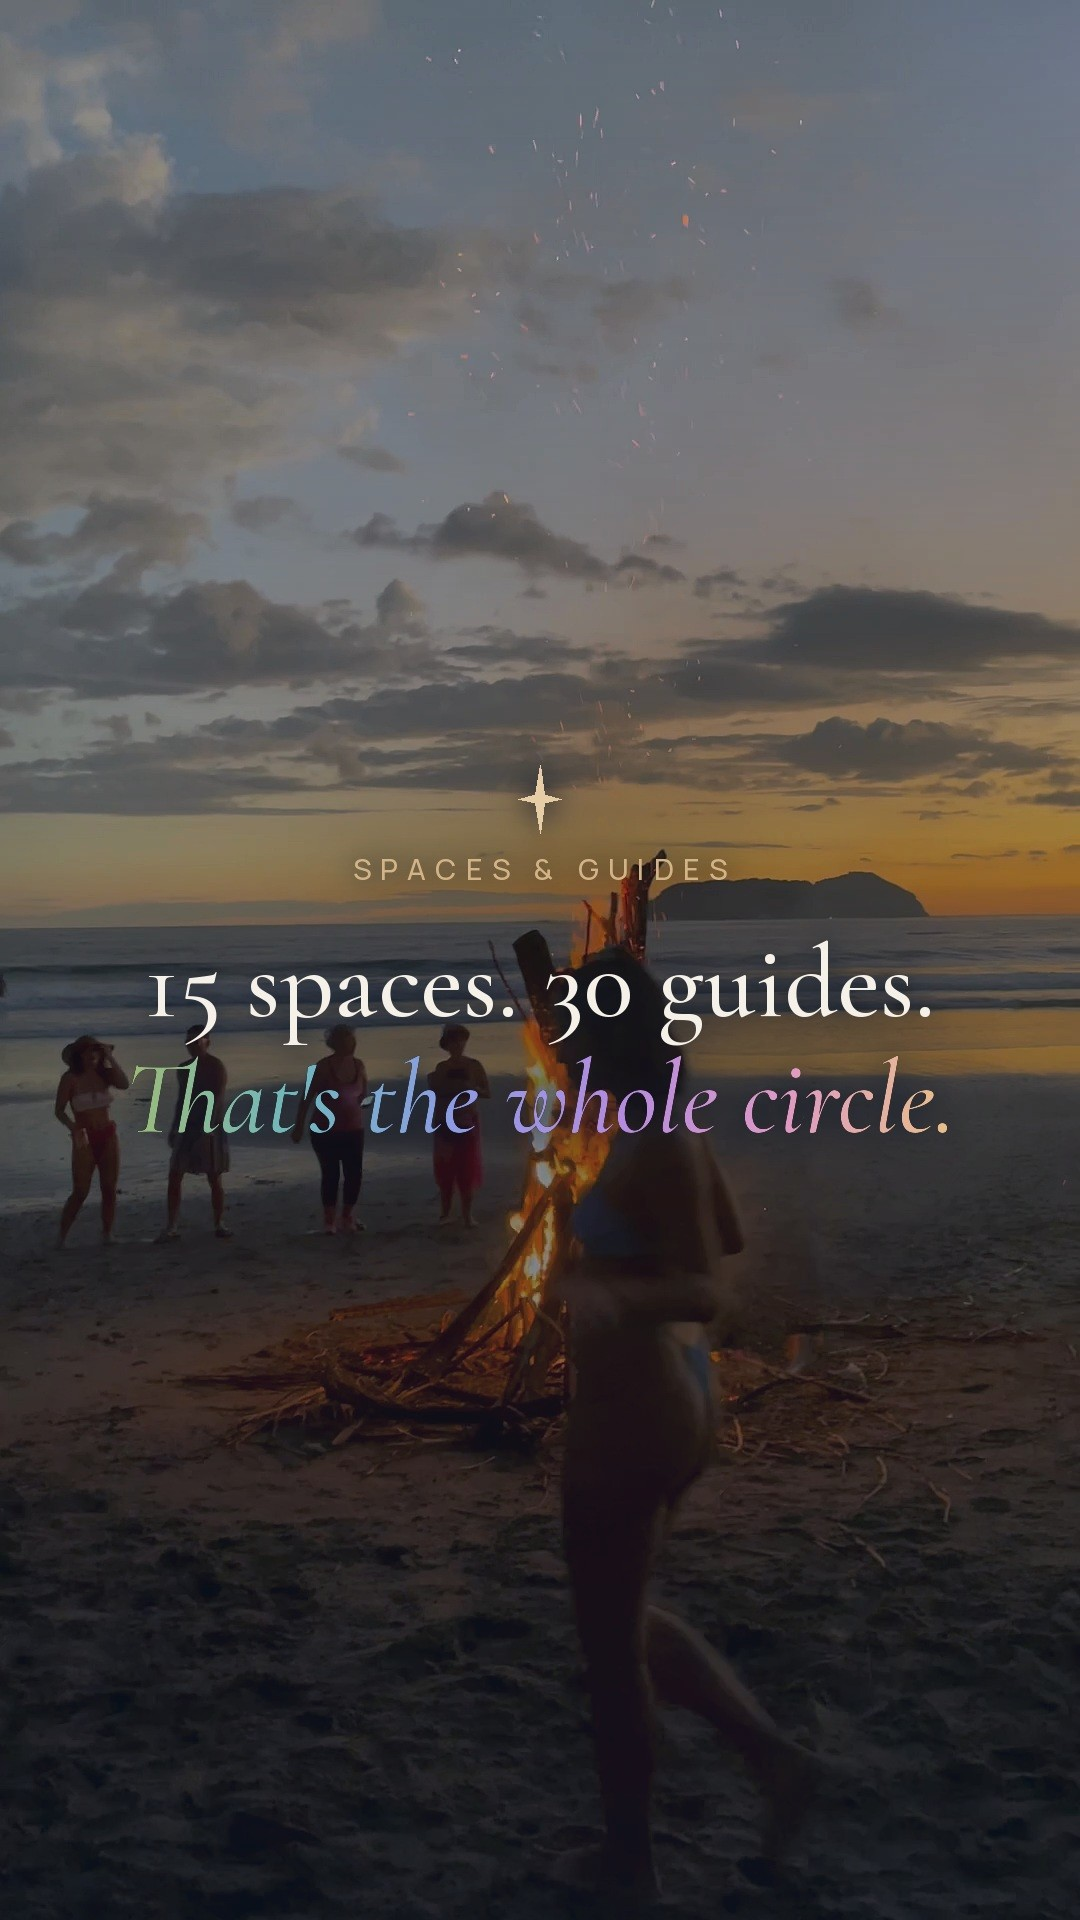
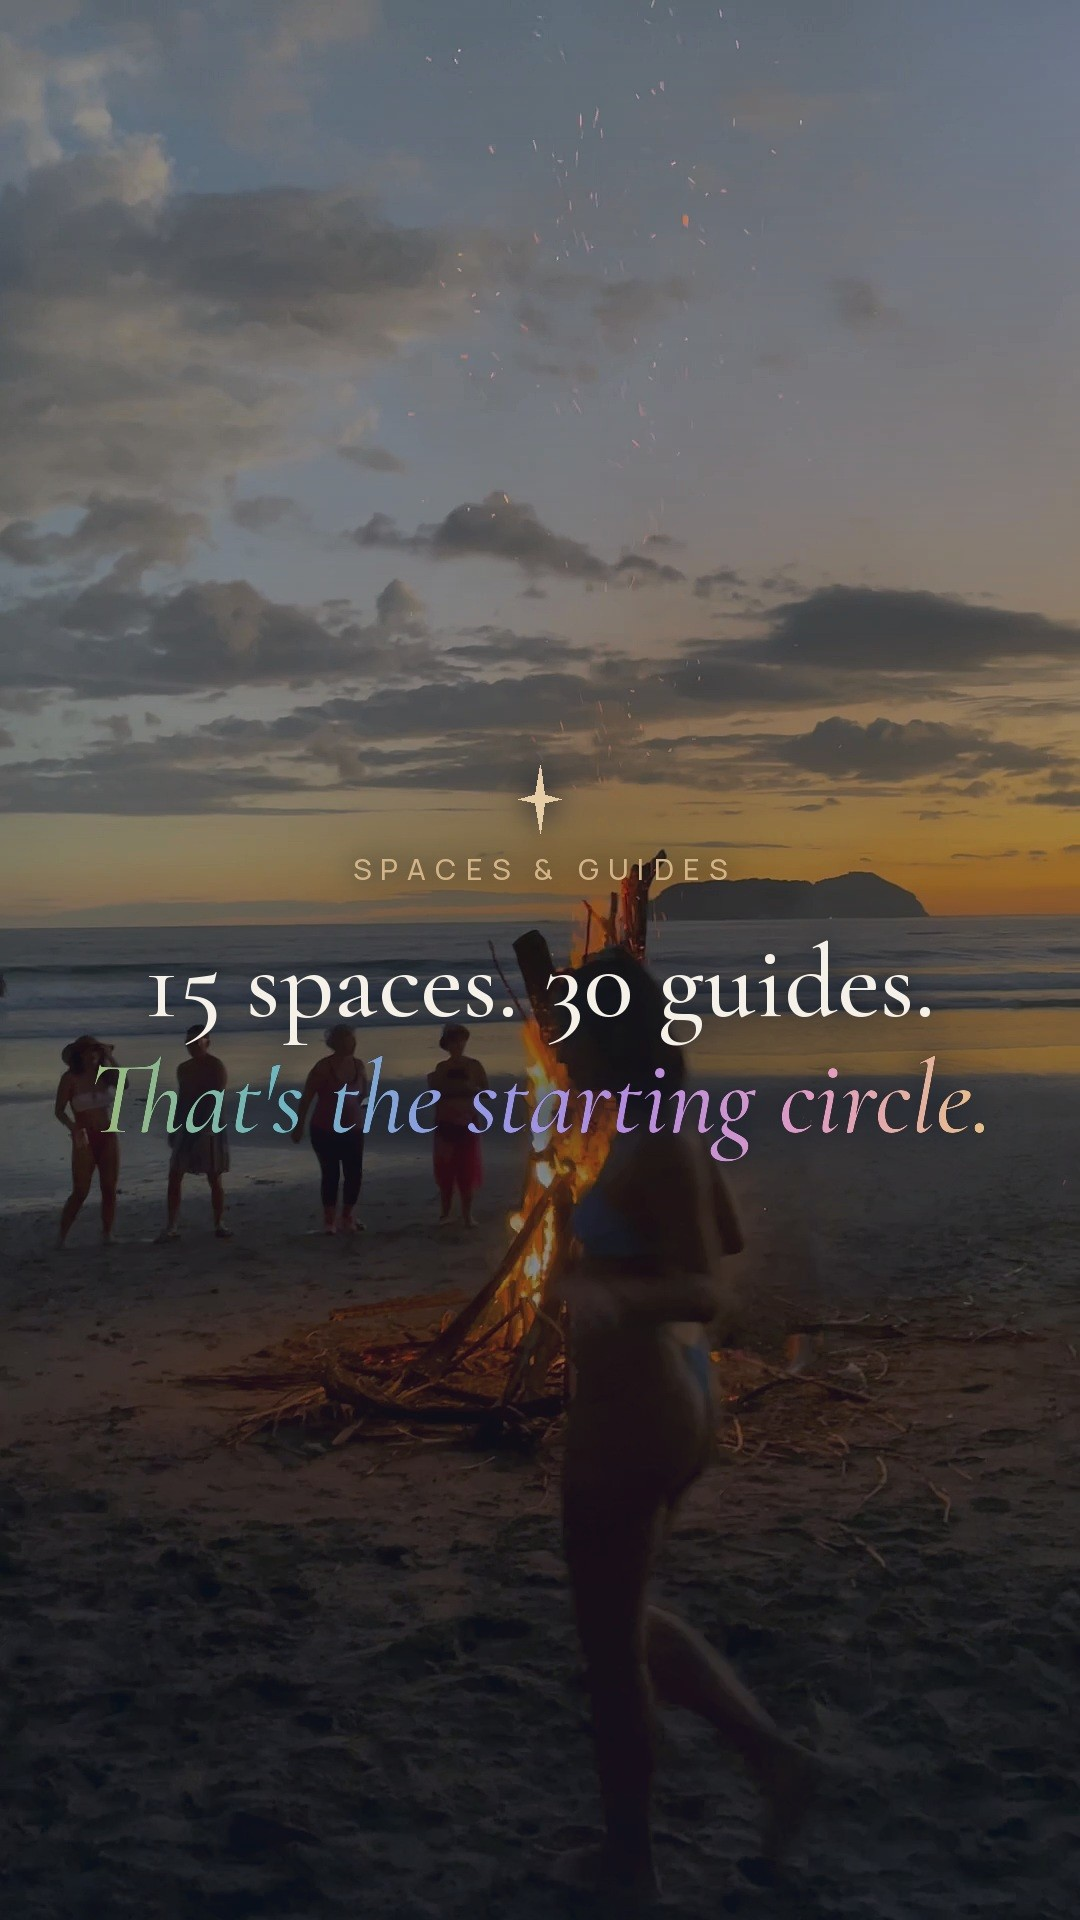
Call the 15 spaces and 30 guides the starting circle (#5)
Applies Xan's console request on post 31-fifteen-thirty.

Claude-Session: https://claude.ai/code/session_01CUdr5kvn7Tcfrij8b2tCea

Changed region(s): [[0.0917, 0.5312, 0.9167, 0.5938]]

diff --git a/console/src/social/posts.ts b/console/src/social/posts.ts
@@ -643,7 +643,7 @@ Apply to the founding circle (link in bio).
     slides: 1,
     aiImagery: false,
     status: 'draft',
-    caption: `15 spaces. 30 guides. That's the whole founding circle.
+    caption: `15 spaces. 30 guides. That's the starting circle. This is just the beginning.
 
 It's free, with no commission. We read every application by hand and meet each person on a short call. When the circle feels complete, we open Xanadu to Seekers. Not before. ✦
 
